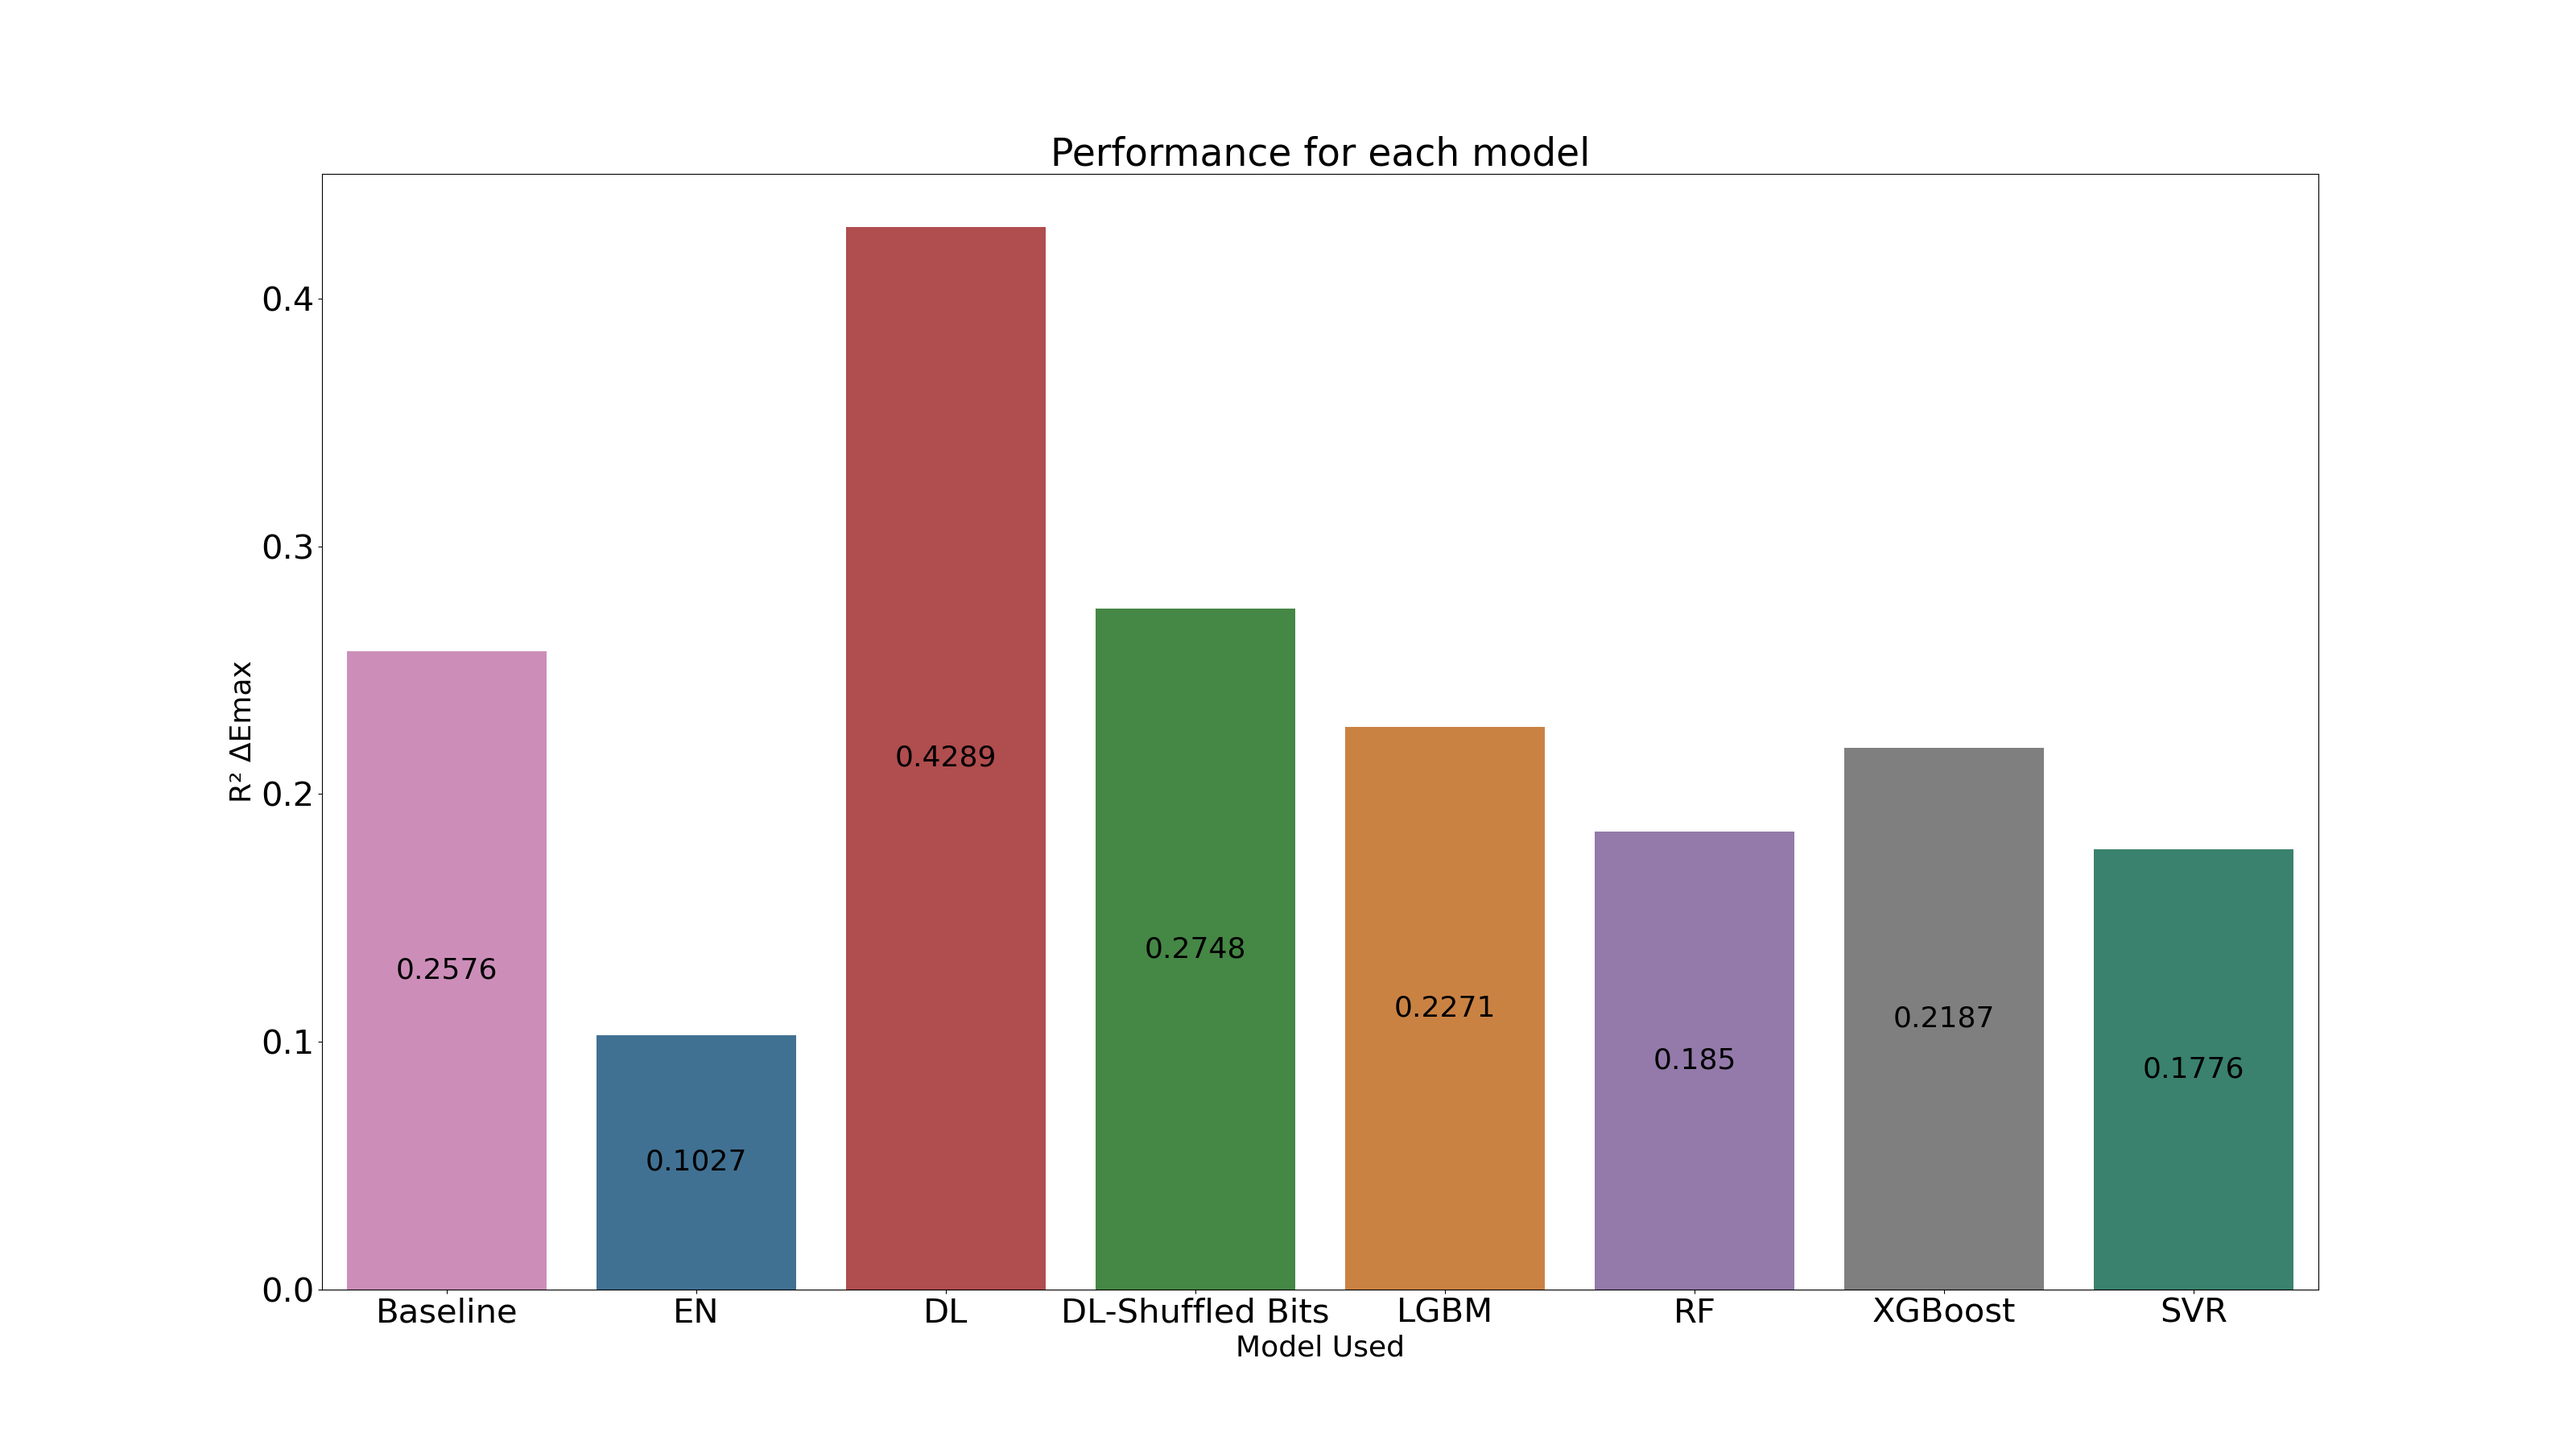
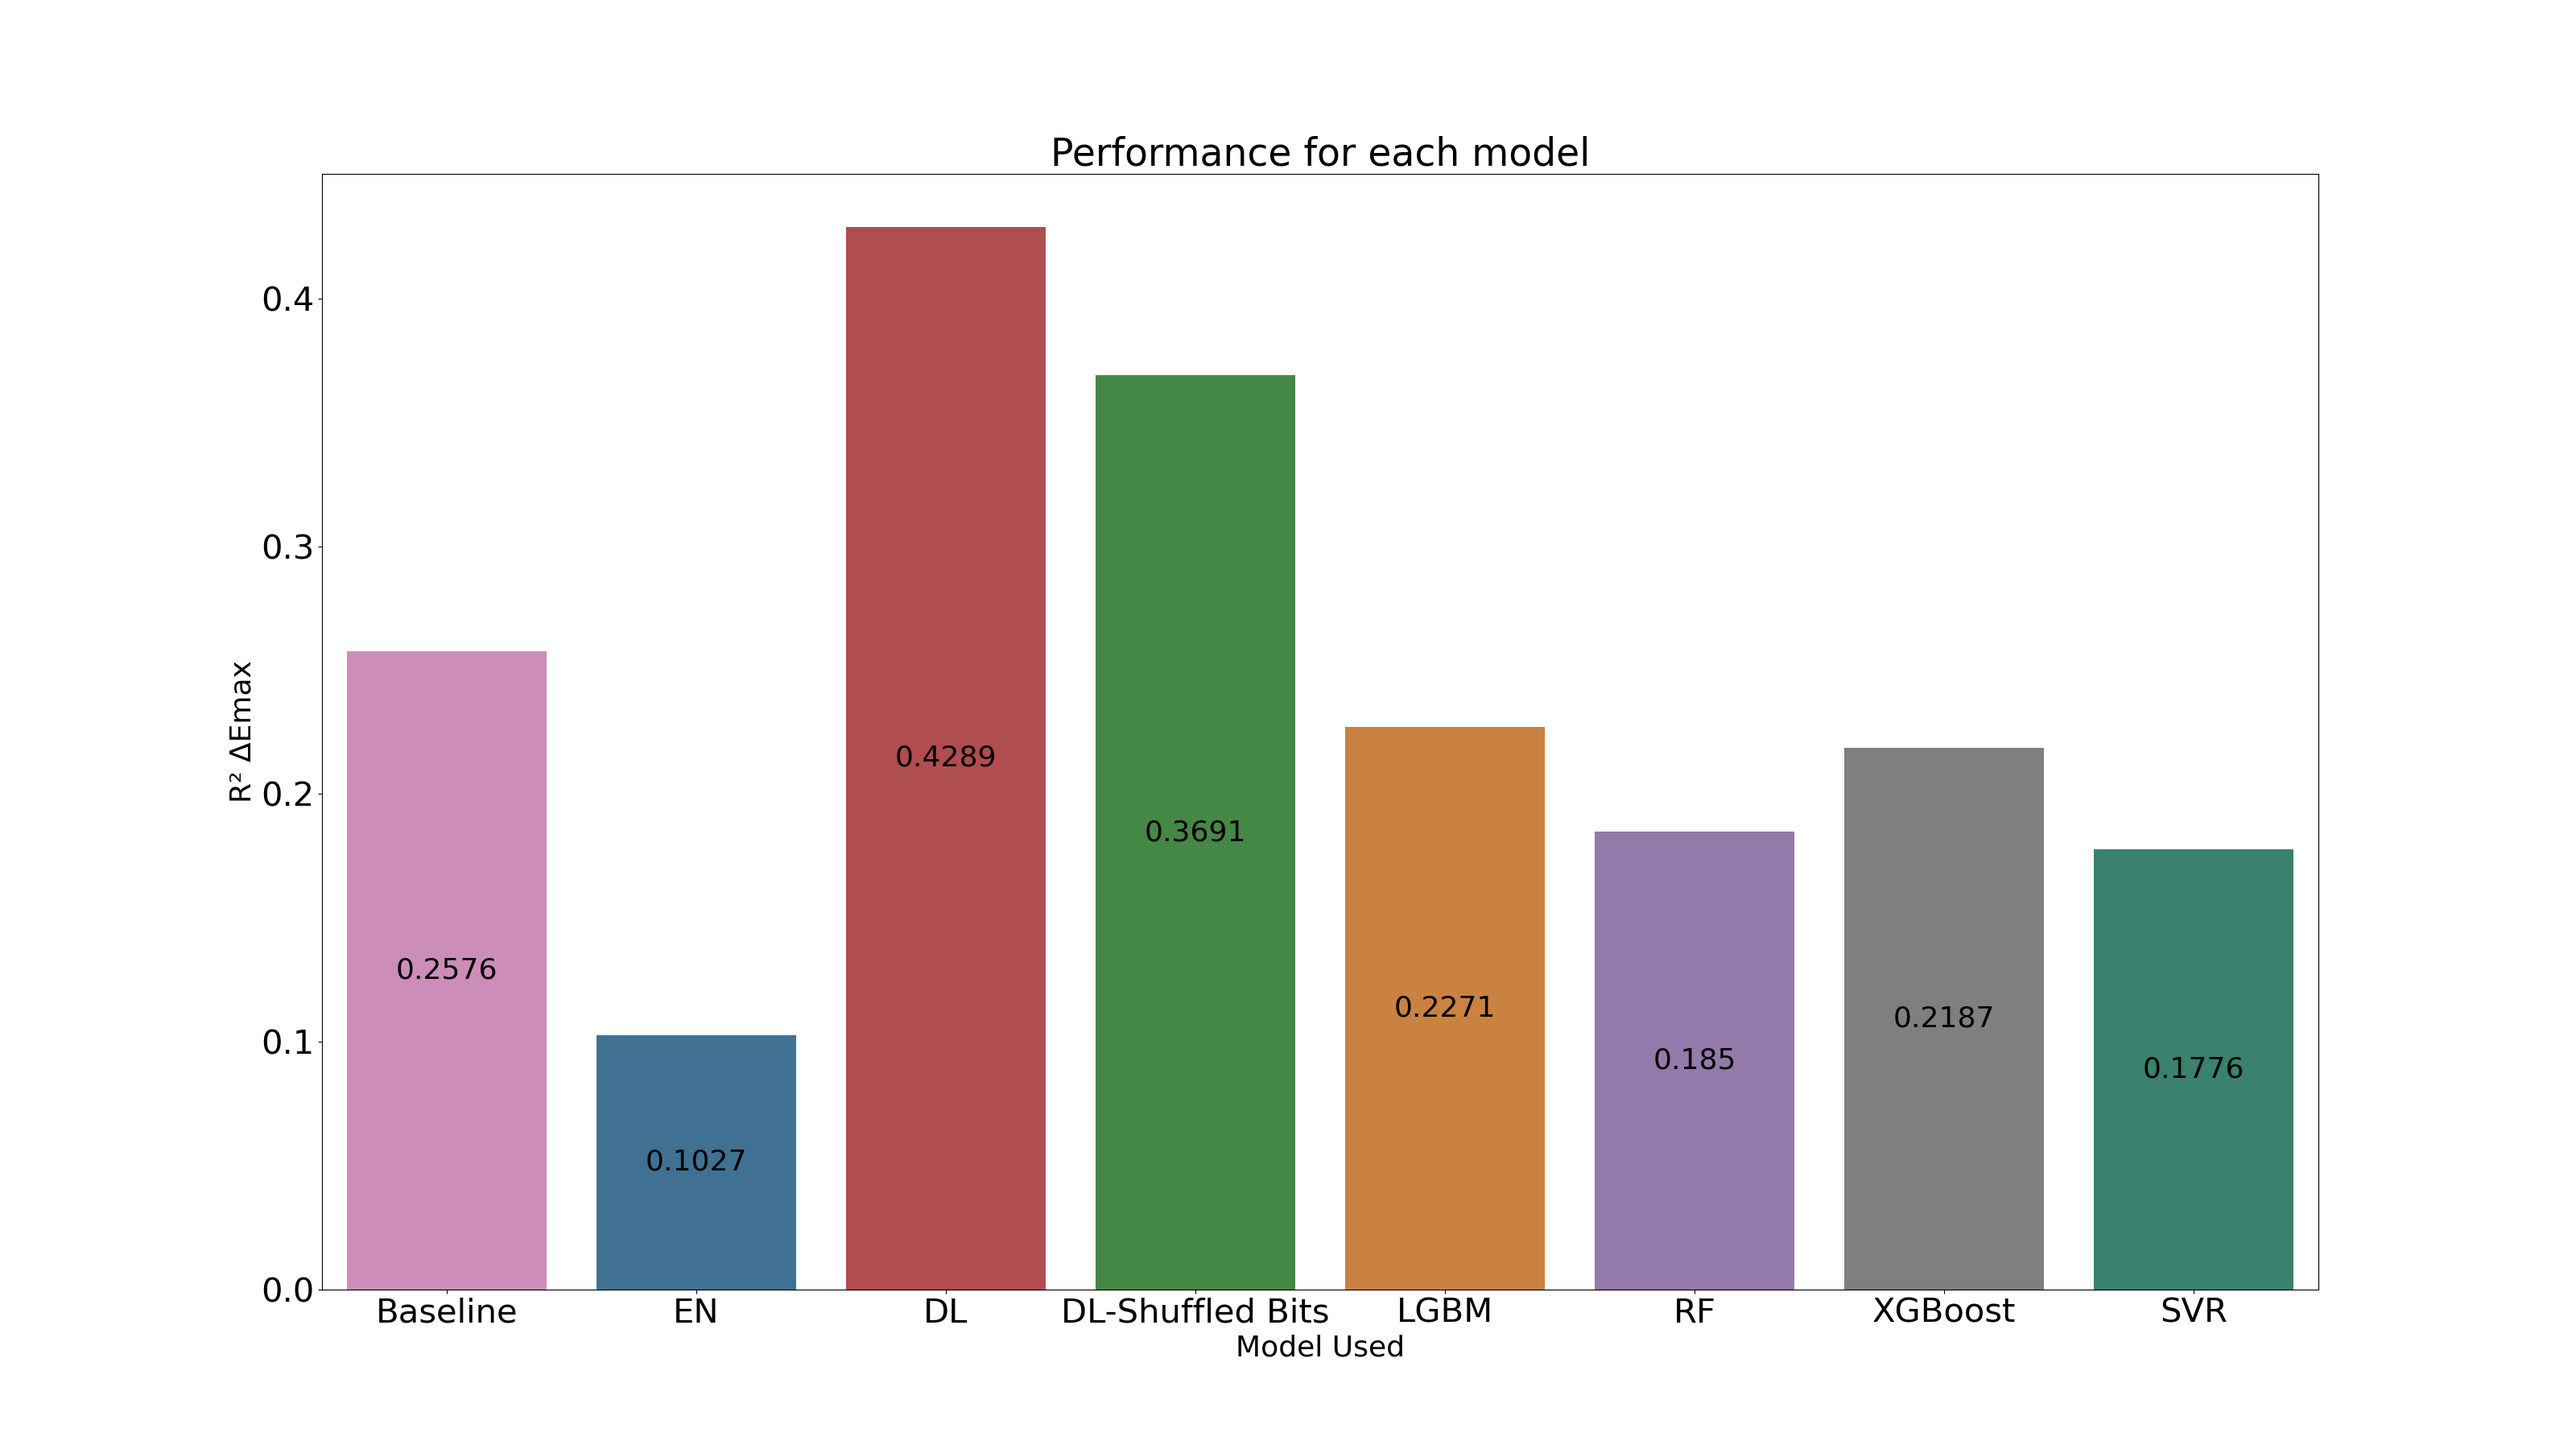
hopefully

Changed region(s): [[0.4062, 0.2489, 0.5, 0.4356], [0.4375, 0.56, 0.4688, 0.5911]]

diff --git a/fullPackage/makeGraphs.py b/fullPackage/makeGraphs.py
@@ -10,7 +10,7 @@ from src.graphFunctions import regressionGraphs, barplot
 ##########################
 ##########################
 #Change
-predictionPaths = [Path(__file__).parent / 'predictions' /'final'/'baseline'/ 'baselinerun0.csv', Path(__file__).parent / 'predictions' /'final'/'en'/ 'enrun0.csv', Path(__file__).parent / 'predictions' / 'final' / 'DL' / 'dl.csv', Path(__file__).parent / 'predictions' / 'temp' / 'dl0.csv', Path(__file__).parent / 'predictions' /'final'/'lgbm'/ 'lgbmrun0.csv', Path(__file__).parent / 'predictions' /'final'/'rf'/ 'rfrun0.csv', Path(__file__).parent / 'predictions' /'final'/'xgboost'/ 'xgboostrun0.csv', Path(__file__).parent / 'predictions' /'final'/'svr'/ 'svrrun0.csv']
+predictionPaths = [Path(__file__).parent / 'predictions' /'final'/'baseline'/ 'baselinerun0.csv', Path(__file__).parent / 'predictions' /'final'/'en'/ 'enrun0.csv', Path(__file__).parent / 'predictions' / 'final' / 'DL' / 'dl.csv', Path(__file__).parent / 'predictions' / 'final' / 'DL' / 'dlrun8.csv', Path(__file__).parent / 'predictions' /'final'/'lgbm'/ 'lgbmrun0.csv', Path(__file__).parent / 'predictions' /'final'/'rf'/ 'rfrun0.csv', Path(__file__).parent / 'predictions' /'final'/'xgboost'/ 'xgboostrun0.csv', Path(__file__).parent / 'predictions' /'final'/'svr'/ 'svrrun0.csv']
 predictionNames = ['Baseline', 'EN', 'DL', 'DL-Shuffled Bits', 'LGBM', 'RF', 'XGBoost', 'SVR']
 saveGraphsFolder =  Path(__file__).parent / 'graphs' / 'regular'
 modelStatsFolder =  Path(__file__).parent / 'results'

diff --git a/fullPackage/trainSKLearn.py b/fullPackage/trainSKLearn.py
@@ -132,8 +132,8 @@ fingerprints = args.fingerprints
 landmarkList = args.landmarkList
 outputPredictions = args.predictions
 tunerDirectory = args.tunerDirectory
-tunerTrials = args.tunerTrials
-tunerRun = args.tunerRun
+tunerTrials = int(args.tunerTrials)
+tunerRun = int(args.tunerRun)
 kFold = args.kFold
 saveTopXHyperparametersPerFold = args.saveTopXHyperparametersPerFold
 
